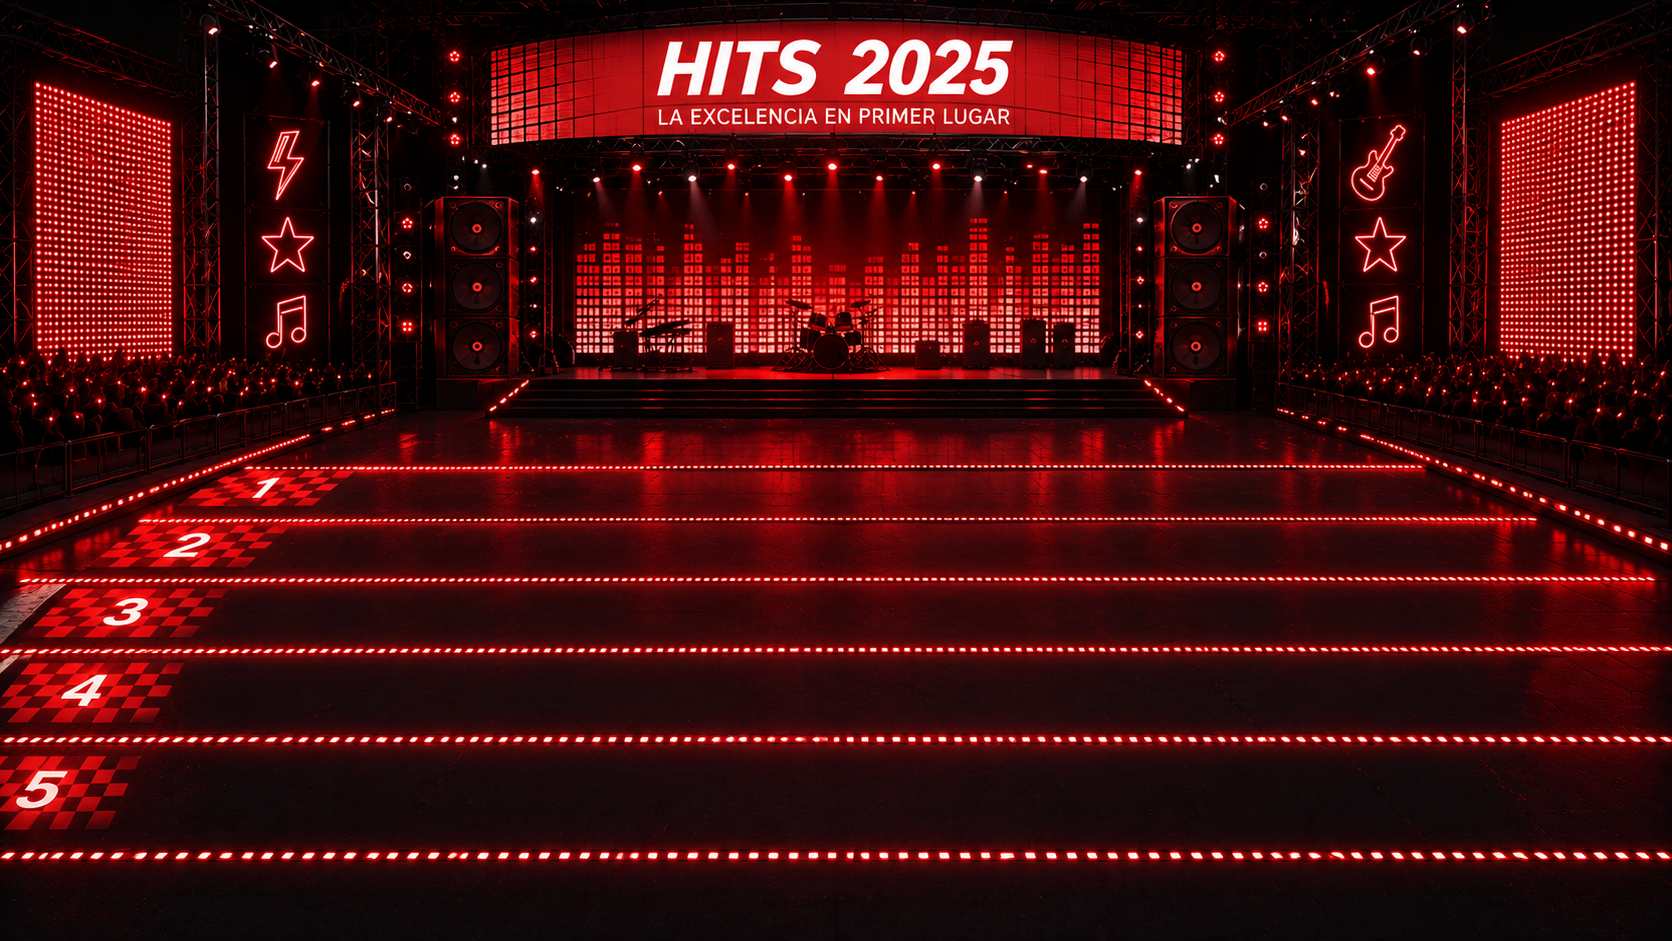
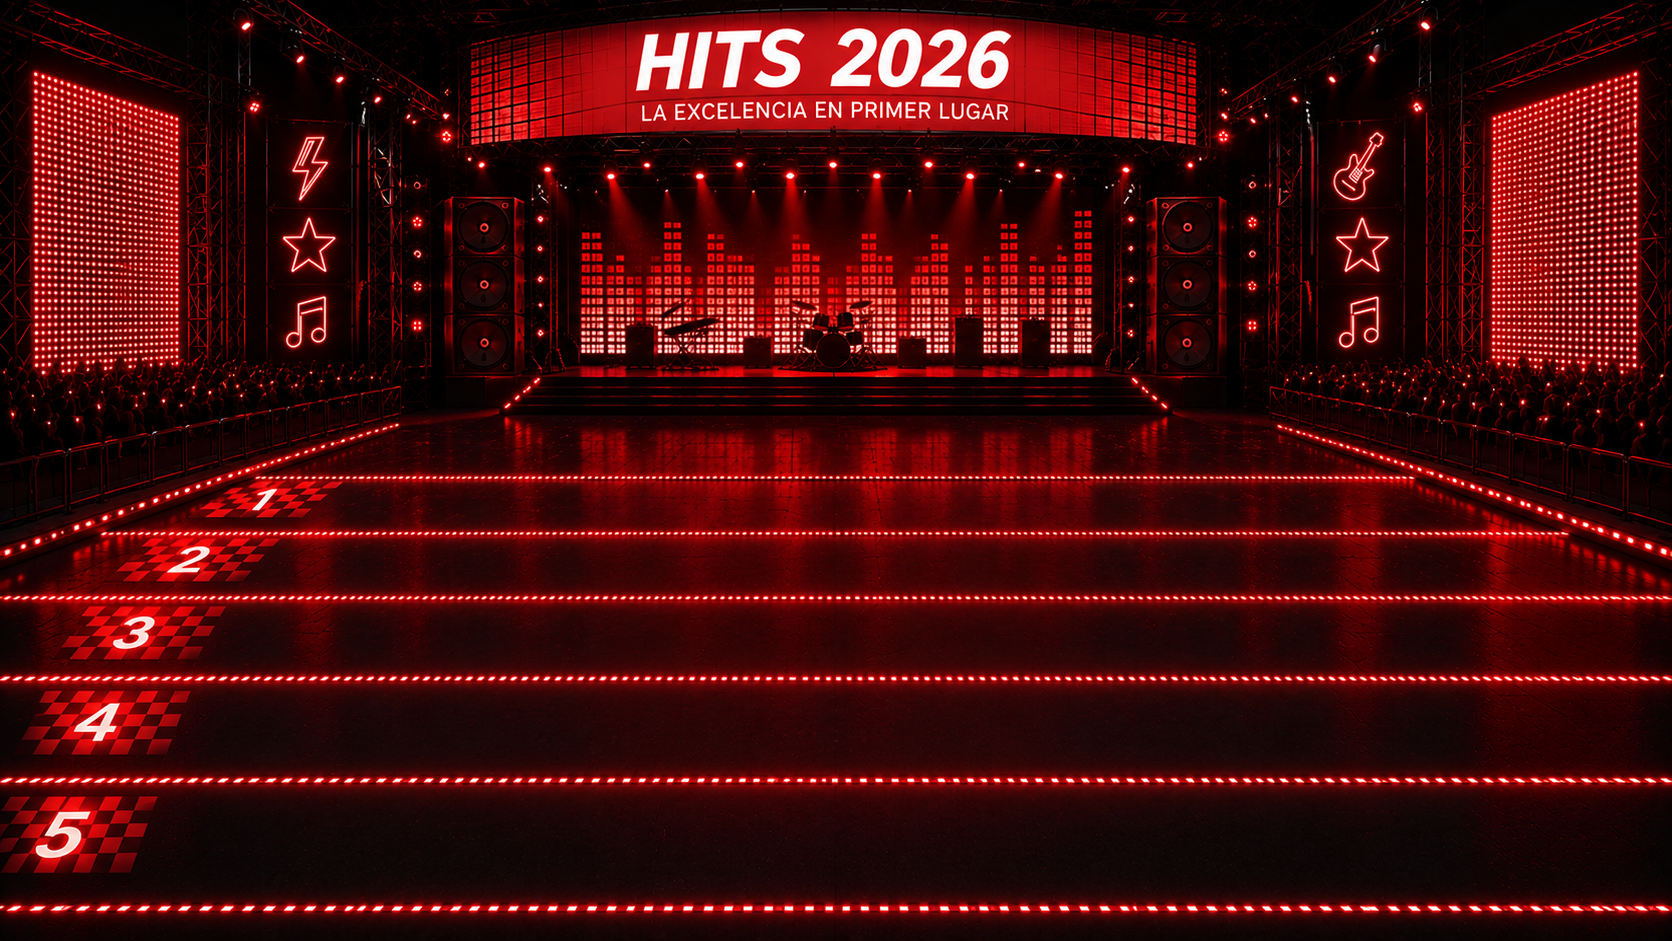
BETAv2.0

diff --git a/index.html b/index.html
@@ -9,15 +9,13 @@
         body, html { margin: 0; padding: 0; height: 100%; font-family: 'Arial Black', sans-serif; color: #fff; overflow: hidden; touch-action: none; background: var(--dark-bg); }
         .con-fondo { background: url('fondo.png') center center / cover no-repeat; background-color: var(--dark-bg); }
         
-        .panel-glass { background: rgba(10, 10, 10, 0.9); backdrop-filter: blur(10px); border: 2px solid var(--neon-red); box-shadow: 0 0 20px rgba(236, 0, 0, 0.5); border-radius: 15px; padding: 25px 15px; width: 90%; max-width: 320px; text-align: center; margin: 0 auto; }
+        /* Modal Glassmorphism unificado */
+        .panel-glass { background: rgba(10, 10, 10, 0.9); backdrop-filter: blur(10px); border: 2px solid var(--neon-red); box-shadow: 0 0 20px rgba(236, 0, 0, 0.5); border-radius: 15px; padding: 25px 15px; width: 90%; max-width: 320px; text-align: center; margin: 0 auto; transition: all 0.3s ease;}
         
         .pantalla { display: none; width: 100%; height: 100%; flex-direction: column; justify-content: center; align-items: center; box-sizing: border-box; position: absolute; top: 0; left: 0; }
         .activa { display: flex; animation: aparecer 0.3s ease-out; }
         @keyframes aparecer { from { opacity: 0; transform: translateY(20px); } to { opacity: 1; transform: translateY(0); } }
         
-        #modal-llegada { display: none; position: fixed; top: 0; left: 0; width: 100%; height: 100%; background: radial-gradient(circle, rgba(236,0,0,0.8) 0%, rgba(10,10,10,1) 80%); z-index: 900; flex-direction: column; justify-content: center; align-items: center; text-align: center; padding: 20px; box-sizing: border-box; animation: latido-suave 2s infinite alternate;}
-        @keyframes latido-suave { from { background: radial-gradient(circle, rgba(236,0,0,0.6) 0%, rgba(10,10,10,1) 80%); } to { background: radial-gradient(circle, rgba(236,0,0,0.9) 0%, rgba(10,10,10,1) 70%); } }
-
         #overlay-contador { display: none; position: fixed; top: 0; left: 0; width: 100%; height: 100%; background: rgba(0,0,0,0.95); z-index: 999; flex-direction: column; justify-content: center; align-items: center; }
         #contador-gigante-movil { font-size: 150px; font-family: 'Press Start 2P', cursive; color: var(--neon-red); text-shadow: 0 0 40px var(--neon-red); animation: latido 1s infinite; transition: font-size 0.2s;}
         
@@ -37,16 +35,25 @@
         @keyframes pulso-lento { from { opacity: 0.3; transform: scale(1); } to { opacity: 1; transform: scale(1.05); } }
         @keyframes latido { 0% { transform: scale(1); } 50% { transform: scale(1.1); } 100% { transform: scale(1); } }
         
-        .victoria-flash { animation: flashRW 0.3s infinite !important; background: #EC0000; z-index: 9999;}
+        /* Modificadores de Celebración */
+        .victoria-flash { animation: flashRW 0.2s infinite !important; background: #EC0000; z-index: 9999;}
         @keyframes flashRW { 0% { background: #EC0000; } 50% { background: #fff; } 100% { background: #EC0000; } }
         
         .ruleta-ganador-modo { animation: flashOro 0.2s infinite !important; }
         @keyframes flashOro { 0% { background: #000; } 50% { background: var(--oro); } 100% { background: #000; } }
         
+        /* Latido del panel al cruzar la meta */
+        .panel-latido { animation: sombra-latido 1.5s infinite alternate; }
+        @keyframes sombra-latido { from { box-shadow: 0 0 10px rgba(236, 0, 0, 0.3); } to { box-shadow: 0 0 30px rgba(236, 0, 0, 0.8); } }
+        
+        /* Titulo Oro para ganadores */
+        .titulo-oro { color: var(--oro) !important; text-shadow: 0 0 15px var(--oro) !important; }
+
         .texto-rojo-inverso { color: #EC0000 !important; text-shadow: 2px 2px 0 #000 !important; }
         .texto-blanco-puro { color: #fff !important; text-shadow: 2px 2px 0 #000 !important; }
         .texto-negro-inverso { color: #000 !important; text-shadow: none !important; }
         
+        .derrota { filter: grayscale(100%); opacity: 0.7; pointer-events: none; }
         .img-equipo { width: 80px; height: 80px; object-fit: contain; margin: 10px auto; filter: drop-shadow(0 0 10px var(--neon-red));}
         
         .flotante { position: absolute; color: #fff; font-family: 'Press Start 2P', cursive; pointer-events: none; animation: subirAleatorio 0.5s ease-out forwards; text-shadow: 0 0 10px var(--neon-red), 2px 2px 0 #000; }
@@ -83,10 +90,16 @@
         <div id="contador-gigante-movil">3</div>
     </div>
 
-    <div id="modal-llegada">
-        <h1 id="titulo-modal-llegada" style="font-family: 'Press Start 2P', cursive; font-size: 24px; color: #fff; text-shadow: 0 0 20px var(--neon-red), 0 0 40px var(--neon-red); margin-bottom: 30px;">¡MISION<br>CUMPLIDA!</h1>
-        <h2 id="txt-meta-nombre" style="font-family: 'Arial Black'; font-size: 22px; color: #00ffcc; margin-bottom: 20px; text-transform: uppercase;">...</h2>
-        <p id="txt-meta-desc" style="font-family: 'Arial Black'; font-size: 14px; color: #ddd; line-height: 1.6; max-width: 80%;">Tu equipo ha cruzado la línea de meta.<br><br>Mantente atento a la pantalla principal mientras los demás terminan la carrera.</p>
+    <!-- Nueva Pantalla de Llegada / Resultados (Acorde al Key Visual) -->
+    <div id="pantalla-llegada" class="pantalla">
+        <div id="panel-resultados" class="panel-glass panel-latido">
+            <h1 id="titulo-llegada" style="font-family: 'Press Start 2P', cursive; font-size: 18px; color: #fff; text-shadow: 0 0 10px var(--neon-red); margin-top: 0; margin-bottom: 25px; line-height: 1.5;">¡MISION<br>CUMPLIDA!</h1>
+            <h2 id="txt-meta-nombre" style="font-family: 'Arial Black'; font-size: 18px; color: #fff; margin-bottom: 20px; text-transform: uppercase;">...</h2>
+            
+            <div class="caja-instrucciones" style="margin-bottom: 0;">
+                <p id="txt-meta-desc" style="font-family: 'Arial Black'; font-size: 13px; color: #ddd; line-height: 1.6; margin: 0;">Tu equipo ha cruzado la línea de meta.<br><br>Mantente atento a la pantalla principal mientras los demás terminan la carrera.</p>
+            </div>
+        </div>
     </div>
 
     <div id="pantalla-juego" class="pantalla" style="padding: 0;">
@@ -117,7 +130,7 @@
         const msj = document.getElementById('mensaje-tap');
         const overlayContador = document.getElementById('overlay-contador');
         const contadorGigante = document.getElementById('contador-gigante-movil');
-        const modalLlegada = document.getElementById('modal-llegada');
+        const pantallaLlegada = document.getElementById('pantalla-llegada');
         
         const VOLUMEN_MAX = 0.7;
         const audioCtx = new (window.AudioContext || window.webkitAudioContext)();
@@ -189,6 +202,24 @@
         let yaCruzoMeta = false;
         let timerFlash = null;
         let rankingMostrado = false;
+        let rankingGlobal = [];
+
+        onValue(ref(db, 'clasificacion'), (snapshot) => {
+            rankingGlobal = snapshot.val() || [];
+            
+            // Cuando mi equipo cruza la meta por primera vez
+            if (rankingGlobal.includes(miEquipo) && estadoActual === 'carrera' && !yaCruzoMeta) {
+                yaCruzoMeta = true;
+                document.getElementById('titulo-llegada').innerText = "¡MISION CUMPLIDA!";
+                document.getElementById('titulo-llegada').className = "";
+                document.getElementById('txt-meta-nombre').innerText = `EXCELENTE, ${miPila}`;
+                document.getElementById('txt-meta-desc').innerHTML = `Tu equipo ha cruzado la línea de meta.<br><br>Mantente atento a la pantalla principal mientras los demás terminan la carrera.`;
+                pantallaLlegada.classList.add('activa');
+                document.getElementById('pantalla-juego').classList.remove('activa');
+            }
+            
+            verificarVictoria();
+        });
 
         onValue(ref(db, 'estado'), (snapshot) => {
             estadoActual = snapshot.val() || 'cerrado';
@@ -202,7 +233,11 @@
             document.getElementById('pantalla-espera').classList.remove('activa');
             document.getElementById('pantalla-juego').classList.remove('activa');
             overlayContador.style.display = 'none';
-            modalLlegada.style.display = 'none';
+            
+            if (estadoActual !== 'podio') {
+                pantallaLlegada.classList.remove('activa');
+            }
+
             clearInterval(cuentaAtrasInterval);
             clearTimeout(timerFlash);
 
@@ -223,7 +258,7 @@
                         contadorGigante.innerText = num;
                         reproducirBeep(440);
                     } else { 
-                        contadorGigante.style.fontSize = "80px"; // Ajuste para que "GO!" no desborde
+                        contadorGigante.style.fontSize = "80px"; 
                         contadorGigante.innerText = "GO!"; 
                         reproducirBeep(880);
                         clearInterval(cuentaAtrasInterval); 
@@ -238,72 +273,64 @@
                     msj.className = "parpadeo-lento";
                     document.getElementById('pantalla-juego').classList.add('activa');
                 } else {
-                    document.getElementById('titulo-modal-llegada').innerText = "¡MISION CUMPLIDA!";
+                    document.getElementById('titulo-llegada').innerText = "¡MISION CUMPLIDA!";
+                    document.getElementById('titulo-llegada').className = "";
                     document.getElementById('txt-meta-nombre').innerText = `EXCELENTE, ${miPila}`;
                     document.getElementById('txt-meta-desc').innerHTML = `Tu equipo ha cruzado la línea de meta.<br><br>Mantente atento a la pantalla principal mientras los demás terminan la carrera.`;
-                    modalLlegada.style.display = 'flex';
+                    pantallaLlegada.classList.add('activa');
                 }
             }
             else if (estadoActual === 'podio') {
-                // El flash de 5 segundos se gatilla desde el listener de 'clasificacion'
-                document.getElementById('pantalla-juego').classList.add('activa');
+                verificarVictoria();
             }
         }
 
-        onValue(ref(db, 'clasificacion'), (snapshot) => {
-            const ranking = snapshot.val() || [];
-            
-            if (ranking.includes(miEquipo) && estadoActual === 'carrera' && !yaCruzoMeta) {
-                yaCruzoMeta = true;
-                document.getElementById('titulo-modal-llegada').innerText = "¡MISION CUMPLIDA!";
-                document.getElementById('txt-meta-nombre').innerText = `EXCELENTE, ${miPila}`;
-                document.getElementById('txt-meta-desc').innerHTML = `Tu equipo ha cruzado la línea de meta.<br><br>Mantente atento a la pantalla principal mientras los demás terminan la carrera.`;
-                modalLlegada.style.display = 'flex';
-                document.getElementById('pantalla-juego').classList.remove('activa');
-            }
-
-            // Flujo de 5 Segundos al revelarse el ganador
-            if (estadoActual === 'podio' && ranking.length > 0 && !rankingMostrado) {
+        function verificarVictoria() {
+            if (estadoActual === 'podio' && rankingGlobal.length > 0 && !rankingMostrado) {
                 rankingMostrado = true;
-                modalLlegada.style.display = 'none';
+                pantallaLlegada.classList.remove('activa');
                 document.getElementById('pantalla-juego').classList.add('activa');
 
-                if (ranking[0] === miEquipo) { 
+                if (rankingGlobal[0] === miEquipo) { 
                     zonaTap.className = "victoria-flash"; 
                     msj.innerHTML = "¡GANAMOS!"; 
                     msj.style.fontSize = "40px";
                     msj.className = "texto-rojo-inverso";
                     if(navigator.vibrate) navigator.vibrate([500, 200, 500, 200, 1000, 500, 2000]); 
                     
-                    // Después de 5 segundos, vuelve al modal pero actualizado
                     timerFlash = setTimeout(() => {
                         if(estadoActual === 'podio' && zonaTap.className !== "ruleta-ganador-modo") {
                             zonaTap.className = "";
                             document.getElementById('pantalla-juego').classList.remove('activa');
-                            document.getElementById('titulo-modal-llegada').innerText = "¡1ER LUGAR!";
+                            
+                            // Modal actualizado para ganadores
+                            document.getElementById('titulo-llegada').innerText = "¡1ER LUGAR!";
+                            document.getElementById('titulo-llegada').className = "titulo-oro";
                             document.getElementById('txt-meta-nombre').innerText = `¡CAMPEONES, ${miPila}!`;
-                            document.getElementById('txt-meta-desc').innerHTML = `Tu equipo fue el más rápido.<br><br>Atento a la RULETA en la pantalla principal para el gran premio.`;
-                            modalLlegada.style.display = 'flex';
+                            document.getElementById('txt-meta-desc').innerHTML = `Tu equipo fue el más rápido de la pista.<br><br>Atento a la <strong>RULETA</strong> en la pantalla principal para el gran premio final.`;
+                            pantallaLlegada.classList.add('activa');
                         }
                     }, 5000);
 
                 } else { 
-                    // Para los perdedores, vuelve al modal directamente con su posición
                     zonaTap.className = "";
                     document.getElementById('pantalla-juego').classList.remove('activa');
-                    document.getElementById('titulo-modal-llegada').innerText = "¡CARRERA FINALIZADA!";
-                    document.getElementById('txt-meta-nombre').innerText = `PUESTO #${ranking.indexOf(miEquipo) + 1}`;
-                    document.getElementById('txt-meta-desc').innerHTML = `Gracias por participar.<br><br>Atento a la ruleta del equipo ganador en la pantalla principal.`;
-                    modalLlegada.style.display = 'flex';
+                    
+                    // Modal actualizado para el resto
+                    document.getElementById('titulo-llegada').innerText = "¡CARRERA FINALIZADA!";
+                    document.getElementById('titulo-llegada').className = "";
+                    document.getElementById('txt-meta-nombre').innerText = `PUESTO #${rankingGlobal.indexOf(miEquipo) + 1}`;
+                    document.getElementById('txt-meta-desc').innerHTML = `Gracias por tu energía, ${miPila}.<br><br>Mantente atento a la ruleta del equipo ganador en la pantalla principal.`;
+                    pantallaLlegada.classList.add('activa');
                 }
             }
-        });
+        }
 
         onValue(ref(db, 'ganadorRuleta'), (snap) => {
             const uidGanador = snap.val();
             if(uidGanador && uidGanador === miID) {
                 clearTimeout(timerFlash);
-                modalLlegada.style.display = 'none';
+                pantallaLlegada.classList.remove('activa');
                 document.getElementById('pantalla-juego').classList.add('activa');
                 
                 zonaTap.className = "ruleta-ganador-modo";
@@ -335,8 +362,7 @@
                 const randX = Math.floor(Math.random() * 80) + 10;
                 const randY = Math.floor(Math.random() * 80) + 10;
                 num.style.left = randX + '%'; num.style.top = randY + '%';
-                zonaTap.appendChild(num); 
-                setTimeout(() => num.remove(), 500);
+                zonaTap.appendChild(num); setTimeout(() => num.remove(), 500);
             }
 
             clicksAcumulados++;

diff --git a/tv.html b/tv.html
@@ -13,11 +13,12 @@
         #zona-carriles { position: absolute; top: 0; left: 0; width: 100vw; height: 100vh; }
         .carril { position: absolute; width: 100%; height: 12vh; display: flex; align-items: center; transform: translateY(-50%); }
         
-        /* TRANSICIÓN FLUIDA DE 0.4s (Sincronizada con el Batching del Celular) */
+        /* TRANSICIÓN FLUIDA DE 0.4s (Sincronizada con el Batching del Celular para evitar saltos) */
         .personaje { position: absolute; height: 100%; display: flex; align-items: center; transition: left 0.4s linear, transform 1s ease-out, filter 1s; z-index: 10; filter: drop-shadow(0 0 15px rgba(255,255,255,0.3)); }
         .personaje img { display: block; height: auto; max-height: 12vh; width: auto; object-fit: contain; }
         
-        .linea-meta { position: absolute; left: 85vw; top: 25vh; bottom: 5vh; width: 8px; background: rgba(236,0,0,0.8); box-shadow: 0 0 20px var(--neon-red), 0 0 40px var(--neon-red); z-index: 1; filter: blur(2px); transform: skewX(-8deg); } 
+        /* Línea de meta: Sin skew, perfectamente vertical alineada al 85vw matemático */
+        .linea-meta { position: absolute; left: 85vw; top: 35vh; bottom: 0vh; width: 6px; background: rgba(236,0,0,0.8); box-shadow: 0 0 20px var(--neon-red), 0 0 40px var(--neon-red); z-index: 1; filter: blur(1px); } 
         
         .overlay { position: fixed; top:0; left:0; width:100%; height:100%; background:rgba(5, 5, 5, 0.9); display:none; flex-direction:column; justify-content:center; align-items:center; z-index:100; text-align: center; backdrop-filter: blur(5px); }
         
@@ -116,7 +117,7 @@
         let datosEq = {}, anteriorClicks = {}, posiciones = {};
         let snapshotJugadores = {}; 
         let juegoActivo = false, clasificacion = [];
-        let tiempoInicio = 0, tiemposFinales = {}; // Cronómetro
+        let tiempoInicio = 0, tiemposFinales = {}; 
         const LIMITE_META = 85; 
 
         let volGlobal = 0.7; 
@@ -273,12 +274,11 @@
             }
             else if (estado === 'carrera') { 
                 juegoActivo = true; 
-                if(tiempoInicio === 0) tiempoInicio = Date.now(); // Arranca Cronómetro
+                if(tiempoInicio === 0) tiempoInicio = Date.now(); 
                 audioCarrera.play(); 
             }
         });
 
-        // Seguro contra equipos vacíos en la ruleta
         let ignoreFirstRuleta = true;
         onValue(ref(db, 'triggerRuleta'), (snap) => {
             if(ignoreFirstRuleta) { ignoreFirstRuleta = false; return; }
@@ -298,7 +298,7 @@
             if (equipoData && equipoData.jugadores && Object.keys(equipoData.jugadores).length > 0) { 
                 arrayJugadores = Object.entries(equipoData.jugadores); 
             } else {
-                // Seguro de Fallos (Para QA/Pruebas): Sortea entre TODOS los participantes de la sala
+                // Seguro de Fallos
                 Object.values(datosEq).forEach(eq => { if(eq.jugadores) arrayJugadores.push(...Object.entries(eq.jugadores)); });
                 if(arrayJugadores.length === 0) arrayJugadores = [["NO_ID", "NADIE EN LA SALA"]];
             }
@@ -353,7 +353,6 @@
 
                 if (posiciones[id] >= 1000) {
                     clasificacion.push(id);
-                    // Registrar Tiempo Oficial
                     tiemposFinales[id] = ((Date.now() - tiempoInicio) / 1000).toFixed(2);
                     set(ref(db, 'clasificacion'), clasificacion); 
                     
@@ -364,7 +363,8 @@
                         set(ref(db, 'ganadorAbsoluto'), clasificacion[0]);
                         audioCarrera.pause(); audioCarrera.currentTime = 0;
                         audioDrumroll.currentTime = 0; audioDrumroll.play().catch(e=>console.log(e)); 
-                        // Espera 4 Segundos antes de revelar
+                        
+                        // Espera 4 Segundos antes de revelar (Mantiene suspenso)
                         setTimeout(() => { animacionFinalPodio(); }, 4000); 
                     }
                 }
@@ -398,7 +398,7 @@
                     const nom = EQUIPOS.find(e => e.id === id).nombre;
                     const tiempo = tiemposFinales[id] ? tiemposFinales[id] + "s" : "--";
                     const claseCss = (idx === 0) ? 'fila-ranking fila-primero' : 'fila-ranking';
-                    // Se añadió el tiempo al final de la fila
+                    
                     lista.innerHTML += `<div class="${claseCss}"><span style="width: 10%;">#${idx+1}</span> <span style="flex-grow: 1; text-align: left; padding-left: 20px;">${nom}</span> <span style="color: #aaa; font-family: 'Arial Black'; font-size: 0.8em;">${tiempo}</span></div>`;
                 });
                 
